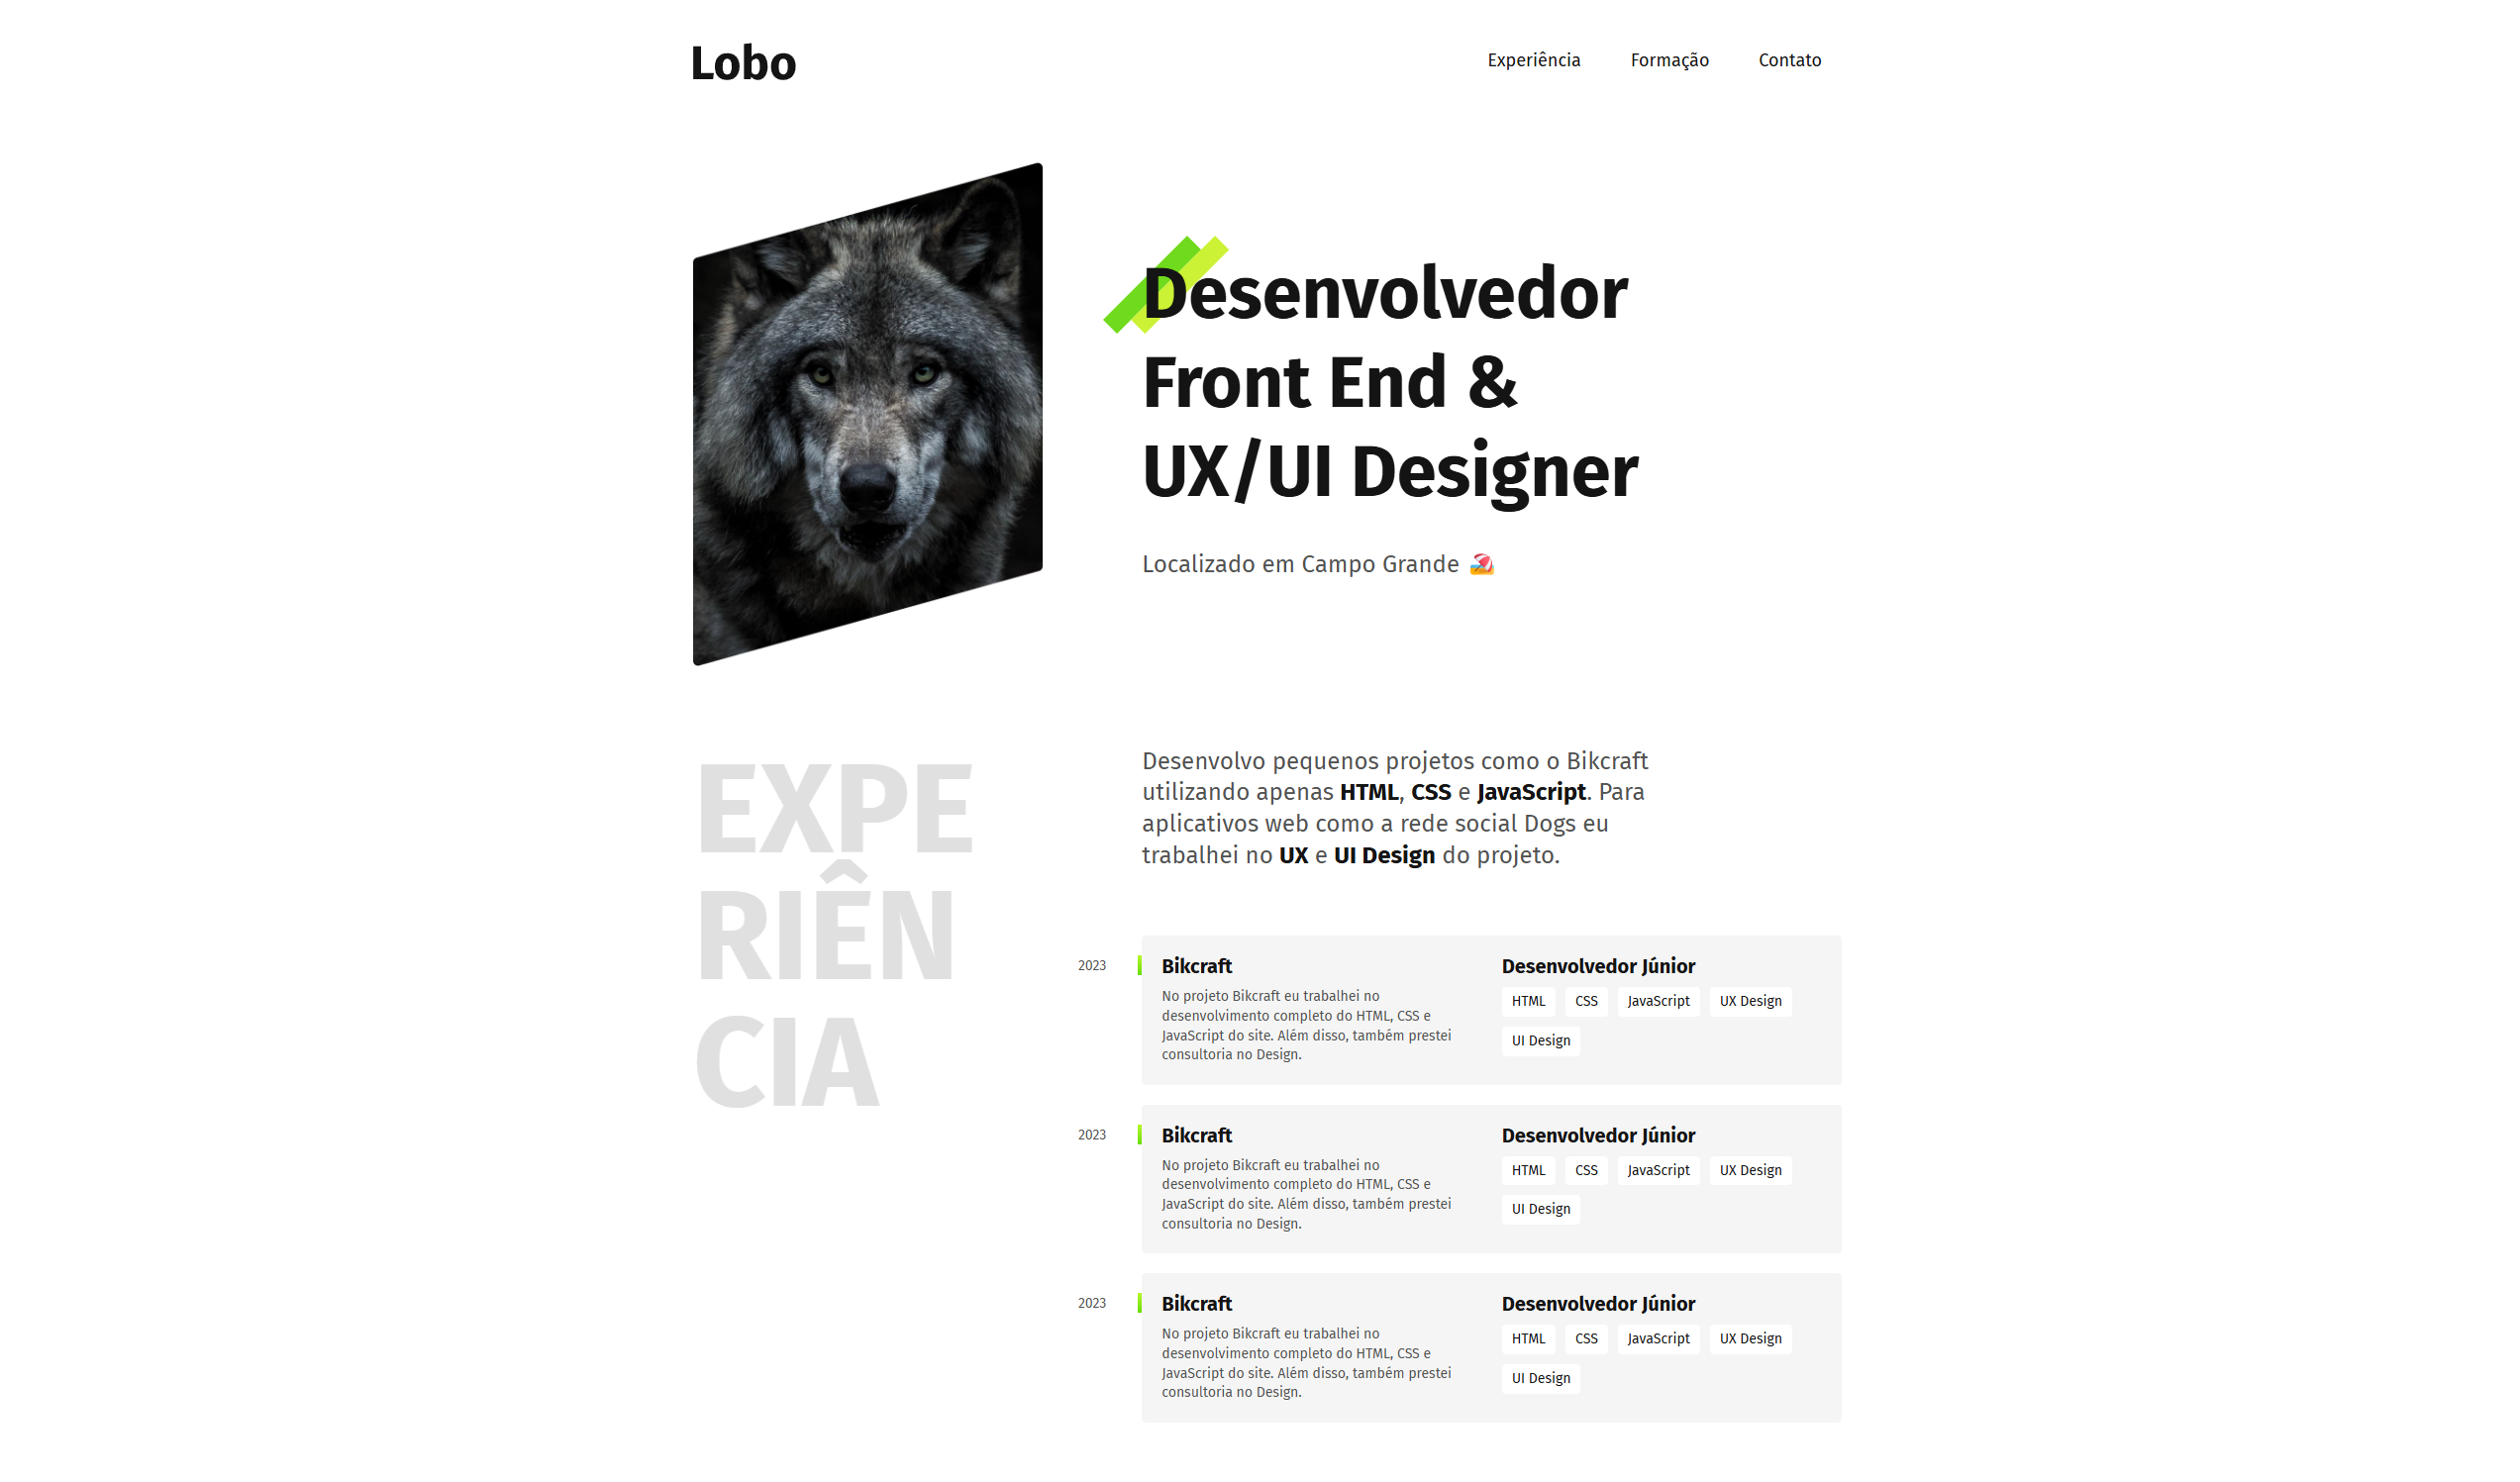
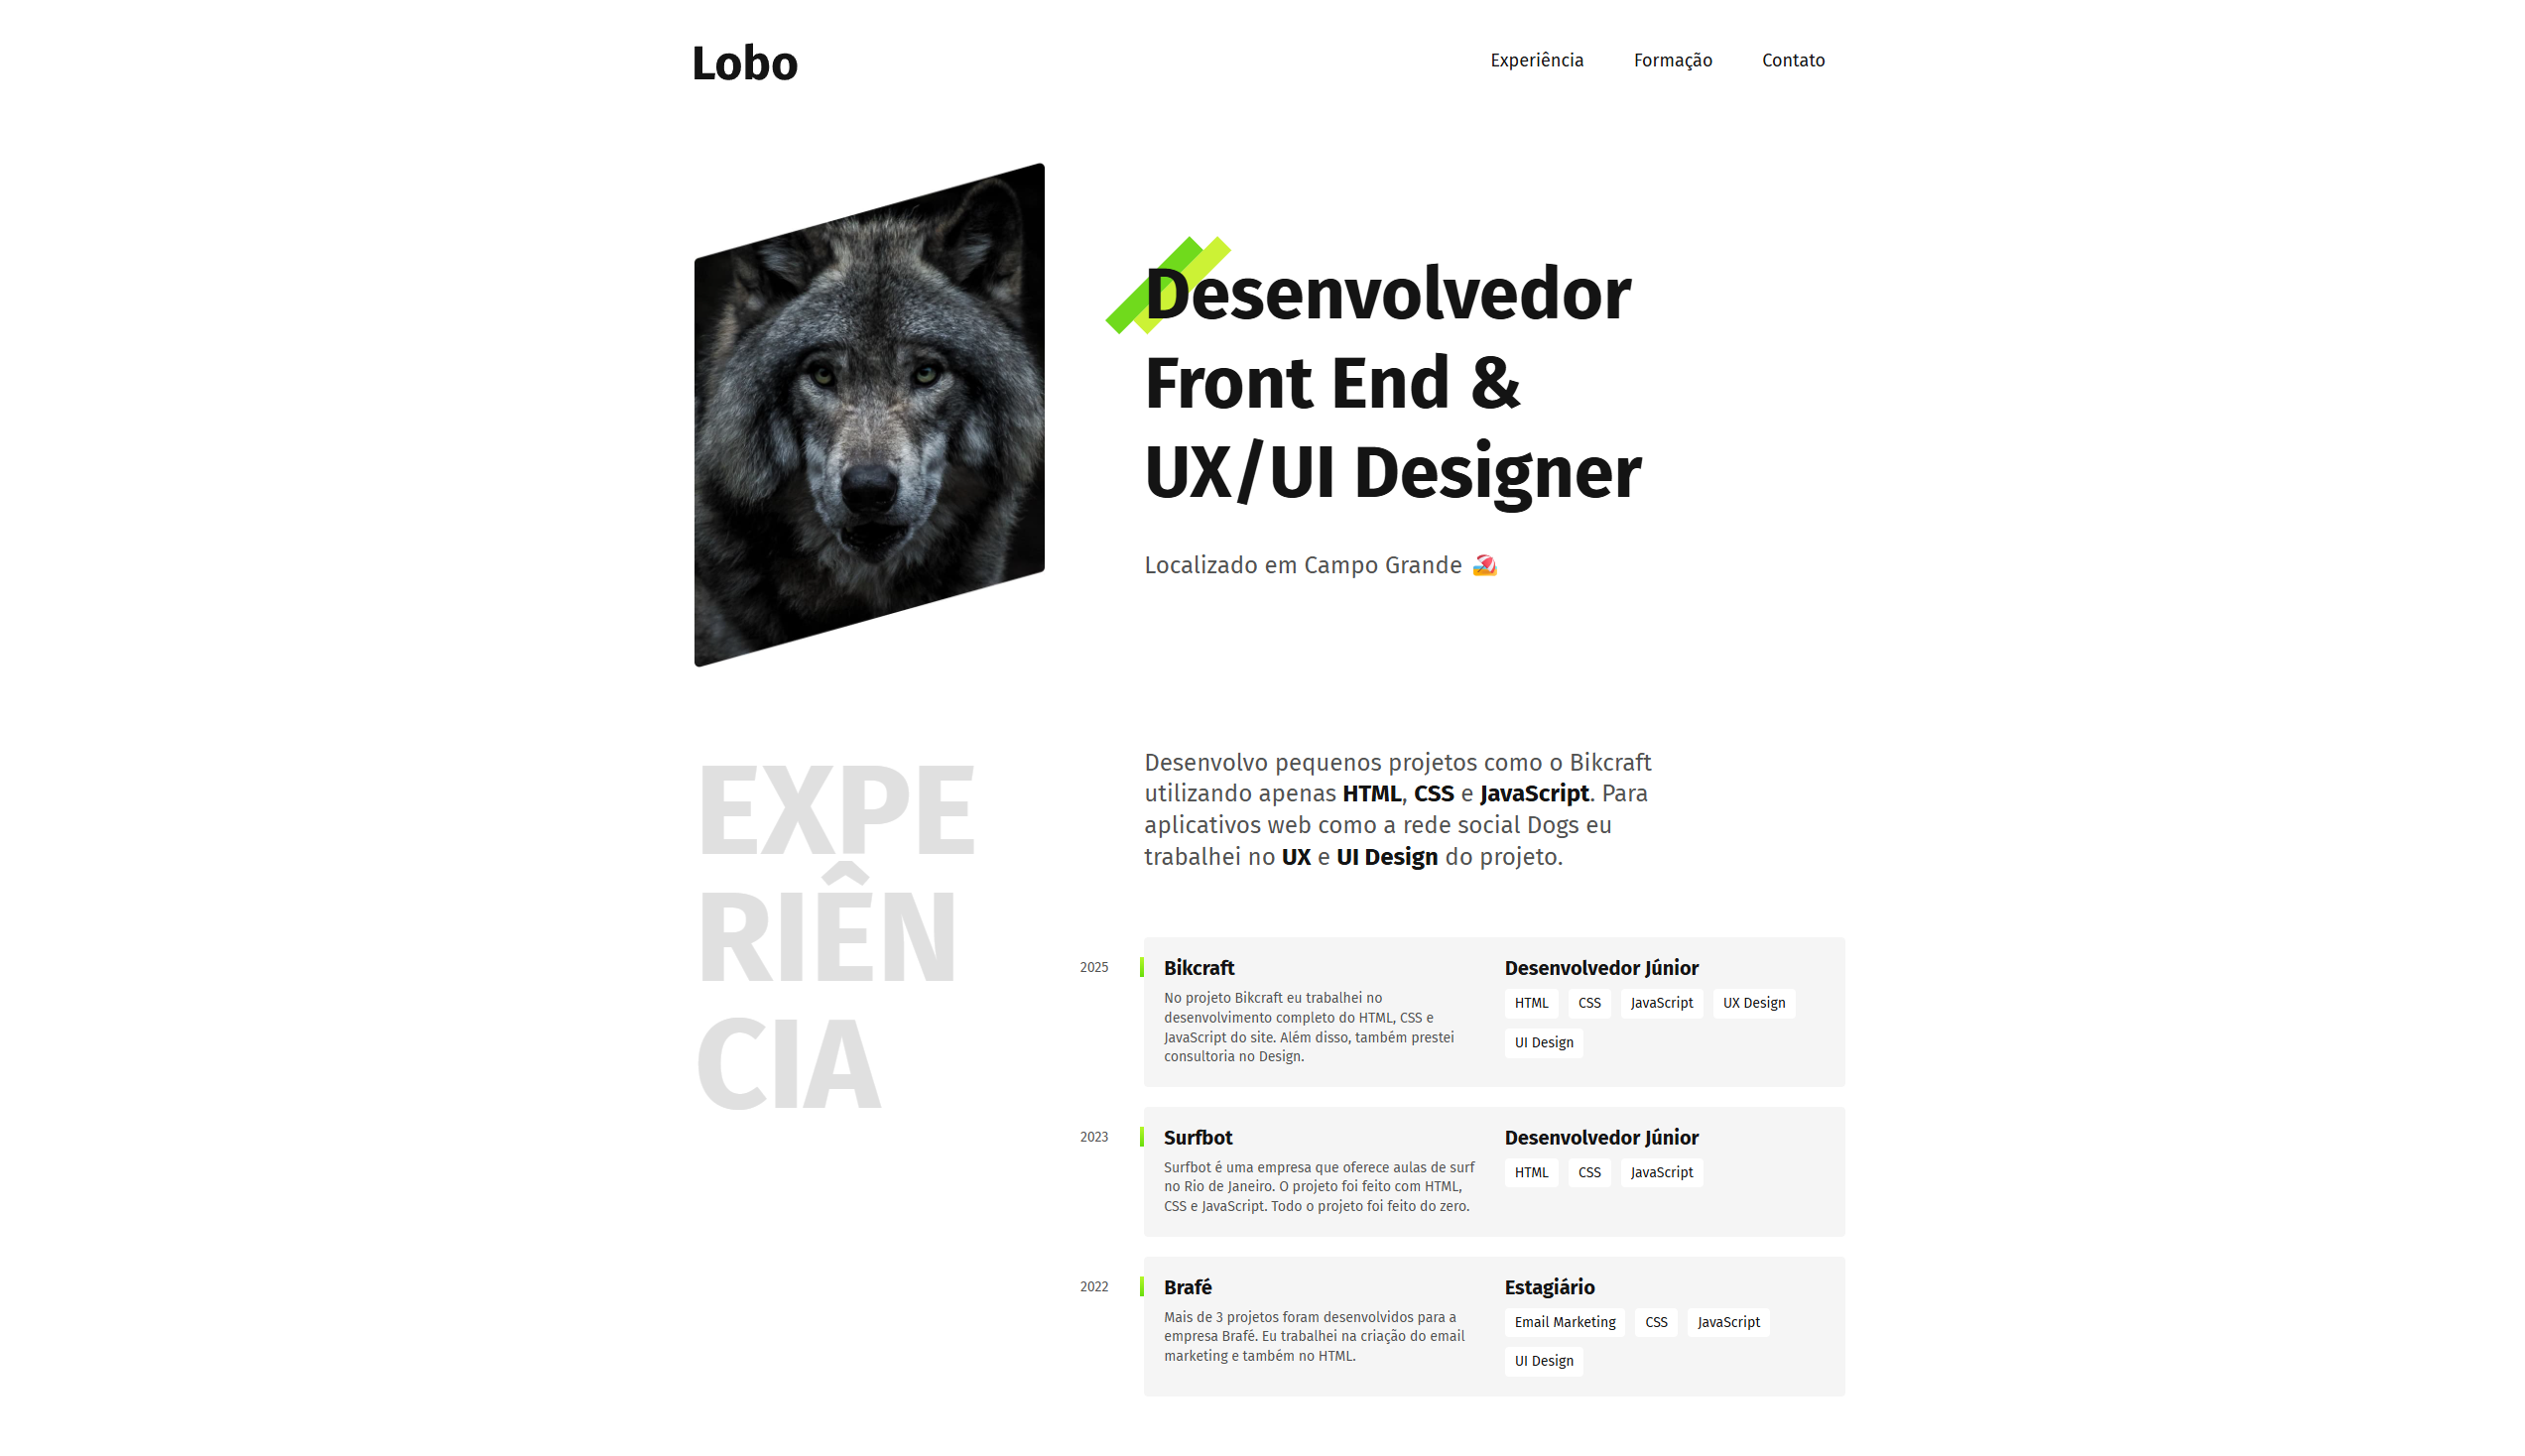
Add formation and footer sections to portfolio
Expansão do portfólio com novas seções: Educação (formação), apresentando histórico acadêmico e idiomas, e Rodapé com informações de contato. Atualização dos itens de experiência profissional e adição de meta-descrição para SEO. Inclusão de estilos CSS responsivos para as novas seções e atributos de dimensões de imagem.

diff --git a/Project-portfolio-lobo/src/formacao.css b/Project-portfolio-lobo/src/formacao.css
@@ -1,0 +1,156 @@
+.formacao {
+  background: #141414;
+  color: #fff;
+}
+
+.formacao-container {
+  max-width: 1200px;
+  padding: 120px 20px;
+  margin: 0 auto;
+  display: grid;
+  grid-template-columns: 1fr 1fr;
+  gap: 6.25rem;
+  position: relative;
+}
+
+.formacao-container::after {
+  content: "";
+  display: block;
+  width: 130px;
+  height: 100px;
+  background: url("../assets/detalhe.svg") no-repeat center;
+  position: absolute;
+  bottom: -50px;
+  left: 20px;
+}
+
+.formacao .subtitulo {
+  color: #000;
+  max-width: 5ch;
+}
+
+.formacao-texto {
+  font-size: 1.5rem;
+  line-height: 1.33;
+  max-width: 40ch;
+  margin-bottom: 4rem;
+  color: #a3a3a3;
+}
+
+.formacao-texto strong {
+  color: #fff;
+}
+
+.faculdade-lista {
+  display: flex;
+  flex-wrap: wrap;
+  gap: 1.25rem;
+  margin-bottom: 3.75rem;
+}
+
+.faculdade {
+  flex: 1;
+  background: #000;
+  padding: 1.25rem;
+  border-radius: 4px;
+  display: flex;
+  flex-direction: column;
+}
+
+.faculdade-tipo {
+  font-size: .875rem;
+  text-transform: uppercase;
+  color: #a3a3a3;
+  margin-bottom: 10px;
+}
+
+.faculdade-curso {
+  flex: 1;
+  font-size: 1.125rem;
+  line-height: 1.4;
+  margin-bottom: 2.4rem;
+  position: relative;
+}
+
+.faculdade-curso::before {
+  content: "";
+  display: block;
+  width: 4px;
+  height: 1.25rem;
+  background: linear-gradient(#b6f829, #67dd0a);
+  position: absolute;
+  left: -24px;
+}
+
+.faculdade-instituicao {
+  font-size: 1.125rem;
+  color: #a3a3a3;
+}
+
+.cursos {
+  margin-bottom: 3.75rem;
+}
+
+
+.formacao-extra h3 {
+  font-size: 0.875rem;
+  line-height: 1.4;
+  color: #8f8f8f;
+  text-transform: uppercase;
+  margin-bottom: 1.5rem;
+  position: relative;
+}
+
+.formacao-extra h3::before {
+  display: block;
+  content: ""; 
+  width: 24px;
+  height: 24px;
+  position: absolute;
+  left: -36px;
+  top: -4px;
+}
+
+.cursos h3::before {
+  background: url("../assets/cursos.svg") no-repeat center center;
+}
+
+.idiomas h3::before {
+  background: url("../assets/idiomas.svg") no-repeat center center;
+}
+
+.formacao-extra li {
+  font-size: 1.125rem;
+  line-height: 1.1;
+  margin-bottom: 1.25rem;
+}
+
+.formacao-extra span {
+  color: #8f8f8f;
+}
+
+.cursos li {
+  display: flex;
+  justify-content: space-between;
+}
+
+@media (max-width: 800px) {
+  .formacao-container {
+    grid-template-columns: 1fr;
+    padding: 60px 20px;
+    gap: 40px;
+  }
+  
+  .formacao .subtitulo {
+    color: #ffffff;
+  }
+
+  .formacao-texto {
+    font-size: 1.25rem;
+  }
+
+  .formacao-extra h3::before {
+    position: initial;
+    margin-bottom: 10px;
+  }
+}

diff --git a/Project-portfolio-lobo/index.html b/Project-portfolio-lobo/index.html
@@ -5,6 +5,7 @@
   <meta charset="UTF-8">
   <meta name="viewport" content="width=device-width, initial-scale=1.0">
   <meta name="author" content="Davi-src">
+  <meta name="description" content="Desenvolvedor Front End & UX/UI Designer Localizado em Campo Grande">
   <!--======= Style =======-->
   <link rel="stylesheet" href="src/style.css">
   <title>Lobo - Desenvolvedor e Designer</title>
@@ -13,7 +14,7 @@
 <body>
 
   <header class="header">
-    <img src="assets/marca.svg" alt="Logo">
+    <img src="assets/marca.svg" alt="Logo" width="104" height="38">
 
     <nav class="nav">
       <ul class="nav-list">
@@ -25,7 +26,7 @@
   </header>
 
   <main class="introducao">
-    <img src="assets/perfil.jpg" alt="Lobo">
+    <img src="assets/perfil.jpg" alt="Lobo" width="360" height="520">
 
     <div>
       <h1>
@@ -46,7 +47,7 @@
       </p>
 
       <div class="empresa">
-        <span class="empresa-ano">2023</span>
+        <span class="empresa-ano">2025</span>
         <h3 class="empresa-titulo">Bikcraft</h3>
         <span class="empresa-titulo">Desenvolvedor Júnior</span>
         <p class="empresa-texto">
@@ -63,42 +64,97 @@
 
       <div class="empresa">
         <span class="empresa-ano">2023</span>
-        <h3 class="empresa-titulo">Bikcraft</h3>
+        <h3 class="empresa-titulo">Surfbot</h3>
         <span class="empresa-titulo">Desenvolvedor Júnior</span>
         <p class="empresa-texto">
-          No projeto Bikcraft eu trabalhei no desenvolvimento completo do HTML, CSS e JavaScript do site. Além disso, também prestei consultoria no Design.
+          Surfbot é uma empresa que oferece aulas de surf no Rio de Janeiro. O projeto foi feito com HTML, CSS e JavaScript. Todo o projeto foi feito do zero.
         </p>
         <ul class="empresa-habilidades">
           <li>HTML</li>
           <li>CSS</li>
           <li>JavaScript</li>
-          <li>UX Design</li>
-          <li>UI Design</li>
         </ul>
       </div>
 
       <div class="empresa">
-        <span class="empresa-ano">2023</span>
-        <h3 class="empresa-titulo">Bikcraft</h3>
-        <span class="empresa-titulo">Desenvolvedor Júnior</span>
+        <span class="empresa-ano">2022</span>
+        <h3 class="empresa-titulo">Brafé</h3>
+        <span class="empresa-titulo">Estagiário</span>
         <p class="empresa-texto">
-          No projeto Bikcraft eu trabalhei no desenvolvimento completo do HTML, CSS e JavaScript do site. Além disso, também prestei consultoria no Design.
+          Mais de 3 projetos foram desenvolvidos para a empresa Brafé. Eu trabalhei na criação do email marketing e também no HTML.
         </p>
         <ul class="empresa-habilidades">
-          <li>HTML</li>
+          <li>Email Marketing</li>
           <li>CSS</li>
           <li>JavaScript</li>
-          <li>UX Design</li>
           <li>UI Design</li>
         </ul>
       </div>
-
-
     </div>
-
-
   </section>
 
+  <section aria-label="Formação" class="formacao" id="formacao">
+    <div class="formacao-container">
+      <h1 class="subtitulo">Formação</h1>
+
+      <div>
+        <p class="formacao-texto">
+          Minha mais recente experiência acadêmica foi o <strong>mestrado 🎓</strong> que fiz no exterior em <strong>UX Design</strong>. Além disso me mantenho sempre atualizado com cursos intensivos online.
+        </p>
+
+        <ul class="faculdade-lista">
+          <li class="faculdade">
+            <span class="faculdade-tipo">Bacharel</span>
+            <h1 class="faculdade-curso">Administração de Empresas</h1>
+            <span class="faculdade-instituicao">UFRJ</span>
+          </li>
+          <li class="faculdade">
+            <span class="faculdade-tipo">Tecnólogo</span>
+            <h1 class="faculdade-curso">Design Digital</h1>
+            <span class="faculdade-instituicao">Infnet</span>
+          </li>
+          <li class="faculdade">
+            <span class="faculdade-tipo">Mestre</span>
+            <h1 class="faculdade-curso">User Experience Design</h1>
+            <span class="faculdade-instituicao">UCLL</span>
+          </li>
+        </ul>
+
+        <div class="formacao-extra">
+          <div class="cursos">
+            <h3>Cursos Intensivos</h3>
+            <ul>
+              <li>UX Design & UI Design <span>56h</span></li>
+              <li>Front End para Iniciantes <span>72h</span></li>
+            </ul>
+          </div>
+          
+          <div class="idiomas">
+            <h3>Idiomas</h3>
+            <ul>
+              <li>Inglês <span>/ Fluente</span></li>
+              <li>Espanhol <span>/ Intermediário</span></li>
+            </ul>
+          </div>
+        </div>
+      </div>
+    </div>
+  </section>
+
+  <footer class="footer" id="contato">
+    <div class="footer-container">
+      <p class="footer-texto">
+        Estou disponível para novos projetos no momento. Entre em contato comigo e marcamos uma conversa 👋
+      </p>
+      <ul class="footer-contato">
+        <li>[email redacted]</li>
+        <li>[phone redacted]</li>
+        <li><a href="/">@instagram</a></li>
+      </ul>
+
+      <p class="footer-copy">Lobo. Alguns direitos reservados.</p>
+    </div>
+  </footer>
 
 </body>
 

diff --git a/Project-portfolio-lobo/src/footer.css b/Project-portfolio-lobo/src/footer.css
@@ -1,0 +1,49 @@
+.footer {
+  background: #000;
+}
+
+.footer-container {
+  max-width: 1200px;
+  padding: 120px 20px 60px 20px;
+  margin: 0 auto;
+  display: grid;
+  grid-template-columns: 1fr 1fr;
+  gap: 6.25rem;
+  align-items: center;
+}
+
+.footer-texto {
+  font-size: 1.5rem;
+  line-height: 1.33;
+  color: #ccc;
+}
+
+.footer-contato li {
+  font-weight: bold;
+  font-size: 2.25rem;
+  line-height: 1.1;
+  color: #fff;
+  margin-bottom: 2.25rem;
+}
+
+
+.footer-contato li a {
+  color: #fff;
+}
+
+.footer-copy{
+  grid-column: 1 / -1;
+  font-size: 1.125rem;
+  color: #8f8f8f;
+}
+
+@media (max-width: 800px) {
+  .footer-container {
+    grid-template-columns: 1fr;
+    gap: 2.5rem;
+  }
+
+  .footer-contato li {
+    font-size: 1.5rem;
+  }
+}

diff --git a/Project-portfolio-lobo/src/global.css b/Project-portfolio-lobo/src/global.css
@@ -36,6 +36,6 @@ img {
   .subtitulo {
     font-size: 3rem;
     text-transform: capitalize;
-    max-width: initial;
+    max-width: initial !important;
   }
 }

diff --git a/Project-portfolio-lobo/src/style.css b/Project-portfolio-lobo/src/style.css
@@ -2,3 +2,5 @@
 @import './header.css';
 @import './introducao.css';
 @import './experiencia.css';
+@import './formacao.css';
+@import './footer.css';